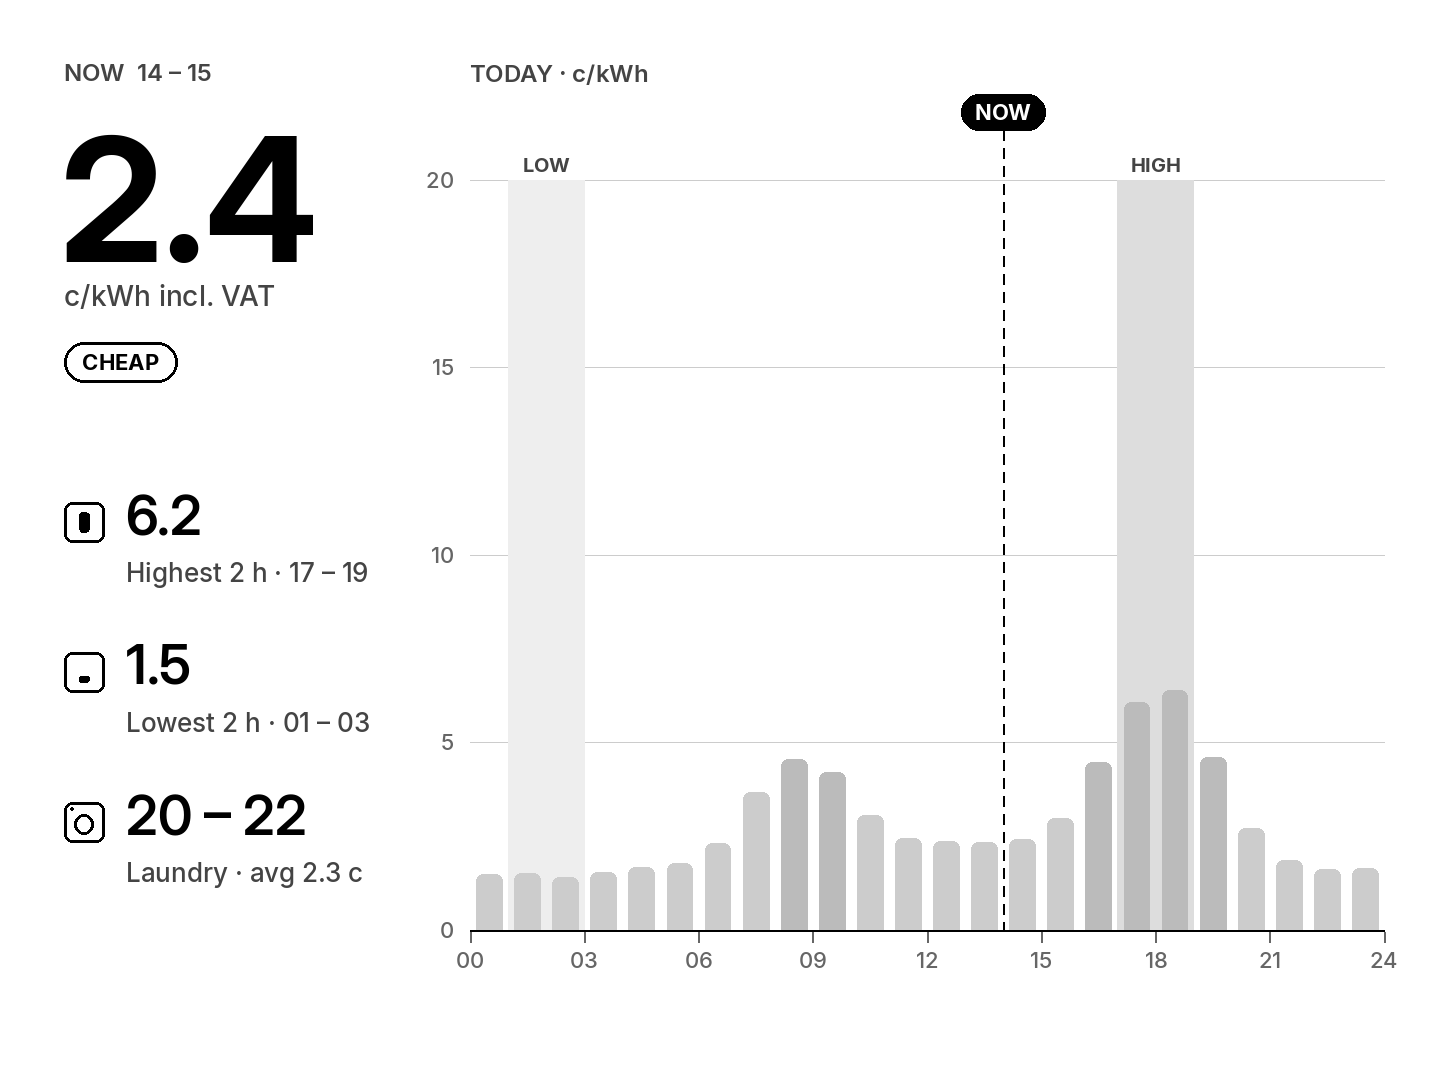
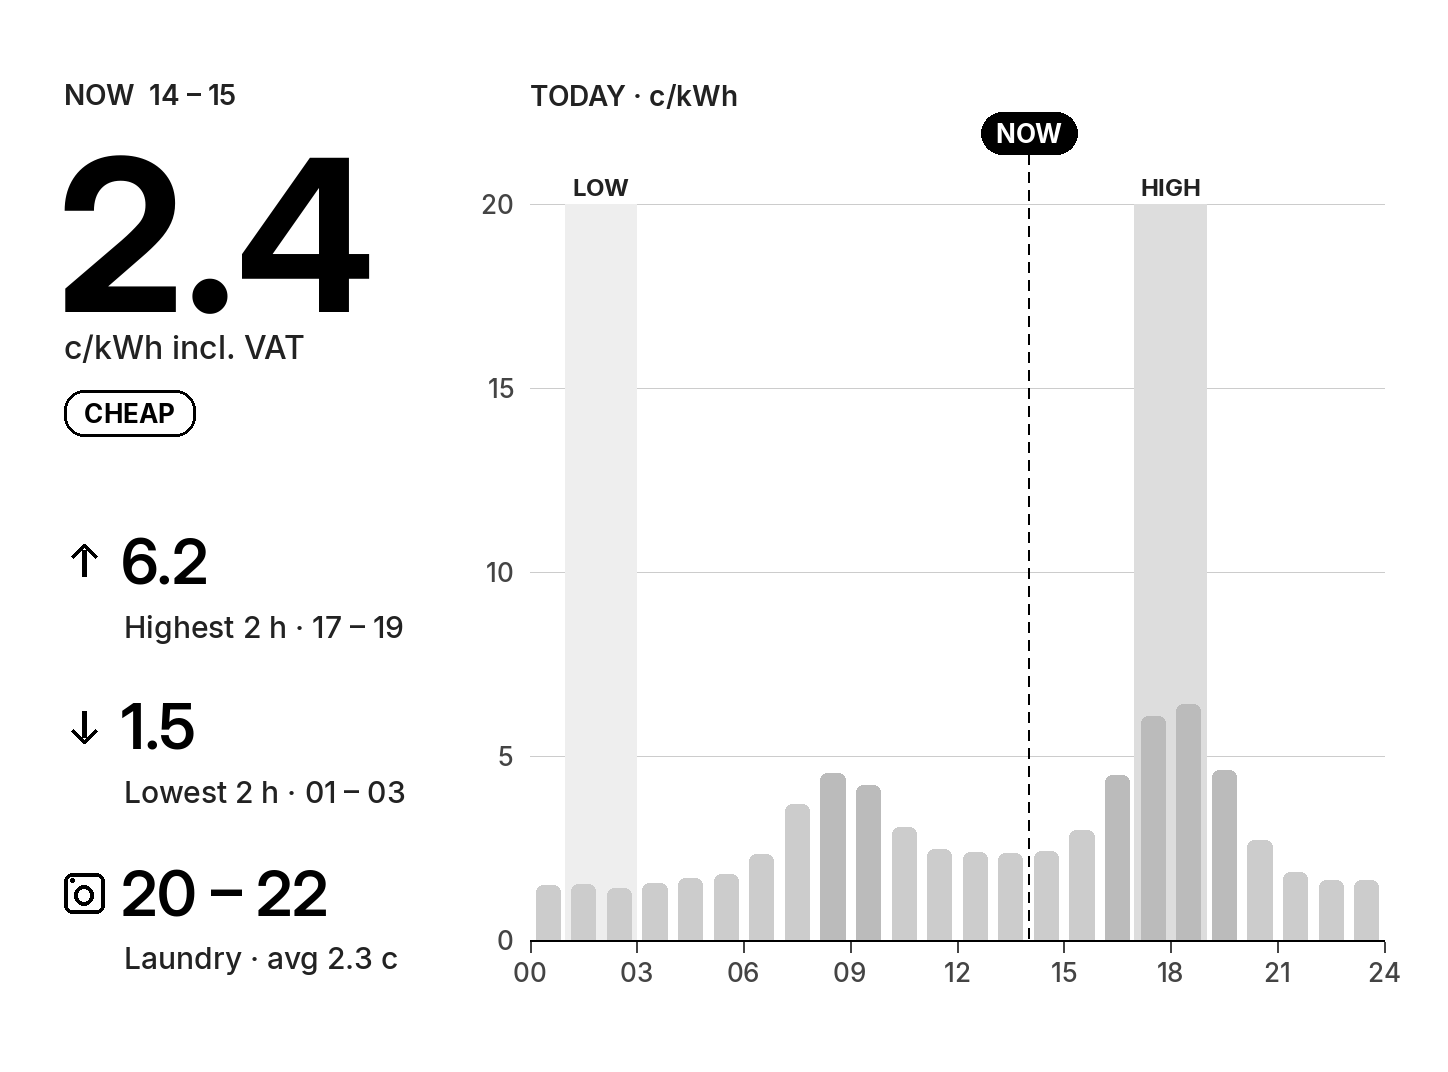
layout refine

diff --git a/render/render.py b/render/render.py
@@ -5,7 +5,9 @@ Data source: api.spot-hinta.fi (Nord Pool day-ahead prices for the FI area,
 15-minute resolution, prices including VAT).
 
 Output (in --out-dir):
-    kindle.png           image for the current hour
+    kindle.png           image for the current hour (as stored on the Kindle)
+    preview.png          the same image upright (landscape), for the web page
+    index.html           small web page for GitHub Pages
     prices.json          hourly prices + laundry window, for other displays
     frames/YYYYMMDD-HH.png  one image per hour for today and tomorrow
     frames/manifest.txt  list of the frame file names
@@ -81,6 +83,7 @@ FONT_CANDIDATES = {
 GRAY_INDEX = [12, 11, 10, 9, 8, 7, 6, 5, 4, 2, 0]   # lightest bar = light gray, no outlines needed
 GRAYS = [i * 17 for i in GRAY_INDEX]
 # other grays, also exact panel levels
+TEXT1 = 34        # secondary text in the landscape design (higher contrast)
 TEXT2 = 68        # secondary text
 TEXT3 = 102       # tertiary text
 RULE = 170        # divider lines
@@ -486,7 +489,7 @@ def _icon_washer(d: ImageDraw.ImageDraw, x: float, y: float, s: float, fill: int
 
 def _icon_arrow(d: ImageDraw.ImageDraw, x: float, y: float, s: float, up: bool, fill: int = 0) -> None:
     """Simple arrow in an s x s box."""
-    w = max(3, round(s / 9))
+    w = max(4, round(s / 8))
     cx = x + s / 2
     top, bot = y + s * 0.12, y + s * 0.88
     if up:
@@ -499,7 +502,7 @@ def _icon_arrow(d: ImageDraw.ImageDraw, x: float, y: float, s: float, up: bool, 
 
 def _icon_washer_simple(d: ImageDraw.ImageDraw, x: float, y: float, s: float, fill: int = 0) -> None:
     """Minimal washing machine: rounded square and a round door."""
-    w = max(3, round(s / 12))
+    w = max(4, round(s / 10))
     d.rounded_rectangle([x, y, x + s, y + s], radius=s * 0.2, outline=fill, width=w)
     cx, cy, r = x + s / 2, y + s * 0.56, s * 0.24
     d.ellipse([cx - r, cy - r, cx + r, cy + r], outline=fill, width=w)
@@ -541,46 +544,67 @@ def _draw_landscape(img: Image.Image, hours: list[Hour], laundry: Window | None,
                     low: Window | None = None, high: Window | None = None) -> None:
     """Current price on the left, today's chart on the right.
 
-    Grid (1448 x 1072, 64 px margins): left column 64-374, chart 470-1384.
-    The left column's kicker and the chart's kicker share the top line (y=64);
-    the last stat ends on the chart's baseline.
+    Layout grid (1448 x 1072):
+      - top and bottom margins are equal (84 px): kickers start at y=84, the x-axis
+        labels end ~84 px above the bottom edge
+      - left column: the upper block (price) and the icons share the left edge x=64;
+        the lower block's text starts at x=124, its block is centered vertically
+        between the label pill and the bottom edge
+      - chart: x 530-1384
     """
     W, H = img.size
     d = ImageDraw.Draw(img)
+    # sizes tuned on the device: a Kindle is read from further away than a phone
     F = {
-        "hero": _inter("InterDisplay-Bold", 172),
-        "unit": _inter("Inter-Medium", 28),
-        "kicker": _inter("Inter-SemiBold", 24),
-        "pill": _inter("Inter-Bold", 22),
-        "stat": _inter("InterDisplay-SemiBold", 54),
-        "sub": _inter("Inter-Medium", 26),
-        "axis": _inter("Inter-Medium", 22),
-        "tag": _inter("Inter-Bold", 20),
-        "now": _inter("Inter-Bold", 22),
+        "hero": _inter("InterDisplay-Bold", 212),
+        "unit": _inter("Inter-Medium", 32),
+        "kicker": _inter("Inter-SemiBold", 28),
+        "pill": _inter("Inter-Bold", 26),
+        "stat": _inter("InterDisplay-SemiBold", 62),
+        "sub": _inter("Inter-Medium", 30),
+        "axis": _inter("Inter-Medium", 26),
+        "tag": _inter("Inter-Bold", 24),
+        "now": _inter("Inter-Bold", 26),
     }
     M = 64
-    TOP = 64                     # top line for kickers
+    TOP = 84                     # top line for kickers
+    LX_ICON = M                  # icons and the upper block share the left edge
+    LX = M + 60                  # text of the lower block
     if not hours:
         d.text((W / 2, H / 2), "No price data for today", font=F["stat"], fill=0, anchor="mm")
         return
+
+    CHART_LEFT = 530
+    PLOT_BOTTOM = 940            # chart baseline; x labels below end ~84 px above the edge
+    ROW_STEP = 166
+    # lower block: centered between the label pill and the bottom edge,
+    # so it has the same space above and below (and sits a little above the x axis)
+    block_h = 2 * ROW_STEP + 78 + 24                # first value top .. last detail bottom
+    pill_bottom = TOP + 352
+    ROW_Y0 = round(pill_bottom + (H - pill_bottom - block_h) / 2)
 
     def span(w: Window) -> str:
         return f"{_hh(w.start)} – {_hh(w.end)}"
 
     # ======================= left column =======================
-    lx = M
+    lx = M                       # upper block: kicker, price, unit, label
     cur = _current(hours, now_l)
     if cur is not None:
         d.text((lx, TOP), f"NOW  {_hh(cur.start)} – {_hh(cur.start + timedelta(hours=1))}",
-               font=F["kicker"], fill=TEXT2, anchor="lt")
-        d.text((lx - 4, 262), fmt_price(cur.price), font=F["hero"], fill=0, anchor="ls")
-        d.text((lx, 284), "c/kWh incl. VAT", font=F["unit"], fill=TEXT2, anchor="lt")
+               font=F["kicker"], fill=TEXT1, anchor="lt")
+        hero = F["hero"]
+        size = 212
+        while d.textlength(fmt_price(cur.price), font=hero) > CHART_LEFT - 90 - lx and size > 140:
+            size -= 4
+            hero = _inter("InterDisplay-Bold", size)
+        d.text((lx - 7, TOP + 228), fmt_price(cur.price), font=hero, fill=0, anchor="ls")
+        d.text((lx, TOP + 250), "c/kWh incl. VAT", font=F["unit"], fill=TEXT1, anchor="lt")
         label, style = level_for(cur.price)
         tw = d.textlength(label, font=F["pill"])
-        box = [lx, 342, lx + tw + 36, 382]
+        box = [lx, TOP + 306, lx + tw + 40, TOP + 352]
         mid = ((box[0] + box[2]) / 2, (box[1] + box[3]) / 2)
         if style == "dark":
-            d.rounded_rectangle(box, radius=20, fill=0)
+            d.rounded_rectangle(box, radius=23, fill=0)
             d.text(mid, label, font=F["pill"], fill=255, anchor="mm")
         elif style == "mid":
             d.rounded_rectangle(box, radius=20, fill=GRID)
@@ -591,17 +615,17 @@ def _draw_landscape(img: Image.Image, hours: list[Hour], laundry: Window | None,
 
     # stats: icon, big value, one line of detail; the last row ends on the chart baseline
     icon_s = 40
-    tx = lx + icon_s + 22
-    style = os.environ.get("KSP_ICONS", "swatch")
+    tx = LX
+    style = os.environ.get("KSP_ICONS", "arrow")
     if style == "peak":
-        hi_icon = lambda y: _icon_peak(d, lx, y, icon_s, up=True)
-        lo_icon = lambda y: _icon_peak(d, lx, y, icon_s, up=False)
+        hi_icon = lambda y: _icon_peak(d, LX_ICON, y, icon_s, up=True)
+        lo_icon = lambda y: _icon_peak(d, LX_ICON, y, icon_s, up=False)
     elif style == "arrow":
-        hi_icon = lambda y: _icon_arrow(d, lx, y, icon_s, up=True)
-        lo_icon = lambda y: _icon_arrow(d, lx, y, icon_s, up=False)
+        hi_icon = lambda y: _icon_arrow(d, LX_ICON, y, icon_s, up=True)
+        lo_icon = lambda y: _icon_arrow(d, LX_ICON, y, icon_s, up=False)
     else:
-        hi_icon = lambda y: _icon_swatch(d, lx, y, icon_s, up=True)
-        lo_icon = lambda y: _icon_swatch(d, lx, y, icon_s, up=False)
+        hi_icon = lambda y: _icon_swatch(d, LX_ICON, y, icon_s, up=True)
+        lo_icon = lambda y: _icon_swatch(d, LX_ICON, y, icon_s, up=False)
     rows = []
     if high is not None:
         rows.append((lambda y: hi_icon(y),
@@ -611,26 +635,28 @@ def _draw_landscape(img: Image.Image, hours: list[Hour], laundry: Window | None,
                      fmt_price(low.price), f"Lowest 2 h · {span(low)}", "stat"))
     if laundry is not None:
         label = "Tomorrow" if laundry.day != now_l.date() else "Laundry"
-        rows.append((lambda y: _icon_washer_simple(d, lx, y, icon_s),
+        rows.append((lambda y: _icon_washer_simple(d, LX_ICON, y, icon_s),
                      span(laundry), f"{label} · avg {fmt_price(laundry.price)} c", "stat"))
     else:
-        rows.append((lambda y: _icon_washer_simple(d, lx, y, icon_s, fill=TEXT3),
+        rows.append((lambda y: _icon_washer_simple(d, LX_ICON, y, icon_s, fill=TEXT3),
                      "—", "Laundry · no window left today", "stat"))
     for i, (icon, big, sub, font) in enumerate(rows):
-        y = 494 + i * 150
-        icon(y + 8)
-        d.text((tx, y), big, font=F[font], fill=0, anchor="lt")
+        y = ROW_Y0 + i * ROW_STEP
+        d.text((tx - 3, y), big, font=F[font], fill=0, anchor="lt")
+        # center the icon on the digits' visual middle (cap height), not the text box
+        _, gy0, _, gy1 = d.textbbox((tx, y), "0", font=F[font], anchor="lt")
+        icon((gy0 + gy1) / 2 - icon_s / 2)
         sub_font = F["sub"]
-        max_w = 470 - 40 - tx                 # stay clear of the chart's axis labels
-        size = 26
-        while d.textlength(sub, font=sub_font) > max_w and size > 18:
+        max_w = CHART_LEFT - 90 - tx          # stay clear of the chart's axis labels
+        size = 30
+        while d.textlength(sub, font=sub_font) > max_w and size > 20:
             size -= 1
             sub_font = _inter("Inter-Medium", size)
-        d.text((tx, y + 68), sub, font=sub_font, fill=TEXT2, anchor="lt")
+        d.text((tx, y + 78), sub, font=sub_font, fill=TEXT1, anchor="lt")
 
     # ======================= chart =======================
-    left, right = 470, W - M
-    top, bottom = 180, 930
+    left, right = CHART_LEFT, W - M
+    top, bottom = TOP + 120, PLOT_BOTTOM
     y_max = chart_top_for(hours)
     lo_v = min(h.price for h in hours)
     scale_top = y_max
@@ -651,7 +677,7 @@ def _draw_landscape(img: Image.Image, hours: list[Hour], laundry: Window | None,
                 return left + (i + (t - h.start) / timedelta(hours=1)) * slot
         return right if t >= hours[-1].start else left
 
-    d.text((left, TOP), "TODAY · c/kWh", font=F["kicker"], fill=TEXT2, anchor="lt")
+    d.text((left, TOP), "TODAY · c/kWh", font=F["kicker"], fill=TEXT1, anchor="lt")
 
     # grid
     gstep = 5 if y_max <= 25 else 10
@@ -661,7 +687,7 @@ def _draw_landscape(img: Image.Image, hours: list[Hour], laundry: Window | None,
     for v in ticks:
         yy = y_of(v)
         d.line([(left, yy), (right, yy)], fill=GRID if v else 0, width=1 if v else 2)
-        d.text((left - 16, yy), f"{v}", font=F["axis"], fill=TEXT3, anchor="rm")
+        d.text((left - 16, yy), f"{v}", font=F["axis"], fill=TEXT2, anchor="rm")
 
     # cheapest / most expensive 2 h: background bands behind the bars.
     # LOW is always the lightest gray (lighter than any bar). HIGH is a few levels
@@ -691,13 +717,13 @@ def _draw_landscape(img: Image.Image, hours: list[Hour], laundry: Window | None,
         lab = "NOW"
         tw = d.textlength(lab, font=F["now"])
         bx0 = min(max(nx - tw / 2 - 14, left - 20), right - tw - 28)
-        d.rounded_rectangle([bx0, top - 86, bx0 + tw + 28, top - 50], radius=18, fill=0)
-        d.text((bx0 + 14 + tw / 2, top - 68), lab, font=F["now"], fill=255, anchor="mm")
+        d.rounded_rectangle([bx0, top - 92, bx0 + tw + 30, top - 50], radius=21, fill=0)
+        d.text((bx0 + 15 + tw / 2, top - 71), lab, font=F["now"], fill=255, anchor="mm")
 
     for tx, tag in tags:
         tw = d.textlength(tag, font=F["tag"])
-        d.rectangle([tx - tw / 2 - 6, top - 32, tx + tw / 2 + 6, top - 4], fill=255)
-        d.text((tx, top - 8), tag, font=F["tag"], fill=TEXT2, anchor="mb")
+        d.rectangle([tx - tw / 2 - 6, top - 36, tx + tw / 2 + 6, top - 4], fill=255)
+        d.text((tx, top - 8), tag, font=F["tag"], fill=TEXT1, anchor="mb")
 
     # bars: no outlines, gray = absolute price level
     zero_y = y_of(0)
@@ -721,18 +747,22 @@ def _draw_landscape(img: Image.Image, hours: list[Hour], laundry: Window | None,
         t_hour = (hours[0].start + timedelta(hours=k)).hour if k < n else 24
         x = left + k * slot
         if t_hour % 3 == 0:
-            d.line([(x, zero_y + 2), (x, zero_y + 12)], fill=TEXT3, width=2)
-            d.text((x, bottom + 22), f"{t_hour:02d}", font=F["axis"], fill=TEXT3, anchor="mt")
+            d.line([(x, zero_y + 2), (x, zero_y + 12)], fill=TEXT2, width=2)
+            d.text((x, bottom + 22), f"{t_hour:02d}", font=F["axis"], fill=TEXT2, anchor="mt")
 
 
 def render(hours: list[Hour], laundry: Window | None, now: datetime, out_path: Path,
-           layout: str = LAYOUT, low: Window | None = None, high: Window | None = None) -> None:
+           layout: str = LAYOUT, low: Window | None = None, high: Window | None = None,
+           preview_path: Path | None = None) -> None:
     """Draw one lock-screen image. The saved PNG is always 1072x1448 (portrait),
     as the Kindle expects; the landscape layout is drawn sideways and rotated."""
     now_l = now.astimezone(TZ)
     if layout == "landscape":
         img = Image.new("L", (HEIGHT, WIDTH), 255)
         _draw_landscape(img, hours, laundry, now_l, low=low, high=high)
+        if preview_path is not None:          # upright copy for the web page
+            preview_path.parent.mkdir(parents=True, exist_ok=True)
+            img.save(preview_path, optimize=True)
         img = img.rotate(ROTATE, expand=True)
     else:
         img = Image.new("L", (WIDTH, HEIGHT), 255)
@@ -782,6 +812,26 @@ def render_frames(slots: list[Slot], frames_dir: Path, now: datetime) -> list[st
     return names
 
 
+def write_index(out: Path, now: datetime) -> None:
+    """Small web page for GitHub Pages: the upright preview and links to the files."""
+    img = "preview.png" if (out / "preview.png").exists() else "kindle.png"
+    (out / "index.html").write_text(f"""<!doctype html>
+<html lang="en"><meta charset="utf-8">
+<meta name="viewport" content="width=device-width, initial-scale=1">
+<title>kindle-spot-price</title>
+<body style="font-family:system-ui,sans-serif;max-width:960px;margin:2rem auto;padding:0 1rem;color:#222">
+<h1 style="font-size:1.3rem">Finnish spot price · Kindle lock screen</h1>
+<p>Generated {now.astimezone(TZ):%Y-%m-%d %H:%M} (Helsinki).
+The image below is the current hour's lock screen, shown upright.</p>
+<img src="{img}" alt="Today's lock screen" style="width:100%;border:1px solid #ddd">
+<p><a href="kindle.png">kindle.png</a> (rotated, as stored on the Kindle) ·
+<a href="frames/manifest.txt">hourly frames</a> ·
+<a href="prices.json">prices.json</a> ·
+<a href="https://github.com/kuailoy/kindle-spot-price">source</a></p>
+</body></html>
+""")
+
+
 def main(argv: list[str] | None = None) -> int:
     ap = argparse.ArgumentParser(description=__doc__, formatter_class=argparse.RawDescriptionHelpFormatter)
     ap.add_argument("--out-dir", default="out", help="where to write the output")
@@ -805,7 +855,9 @@ def main(argv: list[str] | None = None) -> int:
     out = Path(args.out_dir)
     render(hours, laundry, now, out / "kindle.png",
            low=extreme_window(slots, today, cheapest=True),
-           high=extreme_window(slots, today, cheapest=False))
+           high=extreme_window(slots, today, cheapest=False),
+           preview_path=out / "preview.png")
+    write_index(out, now)
     (out / "prices.json").write_text(json.dumps(summary(hours, laundry, now), ensure_ascii=False, indent=2))
     print(f"wrote {out / 'kindle.png'} ({len(hours)} hours)")
 

diff --git a/docs/README.zh-CN.md b/docs/README.zh-CN.md
@@ -18,6 +18,17 @@
   - **LOW / HIGH** 背景带标出最便宜和最贵的 2 小时
   - 虚线和 **NOW** 标记当前小时的起点
 
+### 视觉设计思路
+
+- **一眼回答两个问题**：左边回答"现在该不该用电"（大数字 + 状态标签），右边回答"今天什么时候用"（柱状图），其他都删掉了
+- **为 16 级灰度的墨水屏设计**：所有灰色都是 17 的倍数，不会被抖动成杂点；柱子不描边，最浅的柱子用浅灰而不是白色，便宜的小时在白底上也看得见
+- **灰度表示绝对价格，高度表示当天走势**：每 4c 一级灰，便宜的日子即使柱子很高，颜色也是浅的
+- **稳定的纵轴**：平时固定 0 到 20，只有高价日才扩大（参考了 Helen App），每天的图看起来一致，图变高本身就说明"今天贵"
+- **用高亮代替标注**：最便宜和最贵的 2 小时用背景带表示，LOW 永远最浅，HIGH 比带内柱子浅几级，背景带不会盖住柱子；当前小时用一条虚线标在它的起点
+- **去掉没有帮助的元素**：图例、参考线、均线、柱子边框、分隔线、指示三角，都试过，最后因为去掉后更清楚而删掉
+- **字体**：Inter 和 Inter Display，只用三种字号（大数字、数值、小标签）；时间统一写成 `17 – 19`；横轴每 3 小时一个刻度，落在整点分界线上；图标对齐数字的中线
+- **横版**：24 根柱子更舒展。图片按 1448 × 1072 绘制，再旋转成 Kindle 锁屏要求的竖向 1072 × 1448
+
 价格是 Nord Pool 芬兰区现货价，含税，不含电力公司的加价和电网传输费。
 
 ## 原理

diff --git a/README.md b/README.md
@@ -44,7 +44,7 @@ The image is drawn in landscape (Kindle turned with its top edge to the left):
 
 ### Design notes
 
-The layout went through several rounds of iteration on the real device. The ideas that shaped it:
+The layout went through several rounds of iteration. The ideas that shaped it:
 
 - **One glance, two questions.** The left side answers *"should I use electricity now?"* (big number
   plus a CHEAP / EXPENSIVE label); the right side answers *"when today?"* (the chart).
